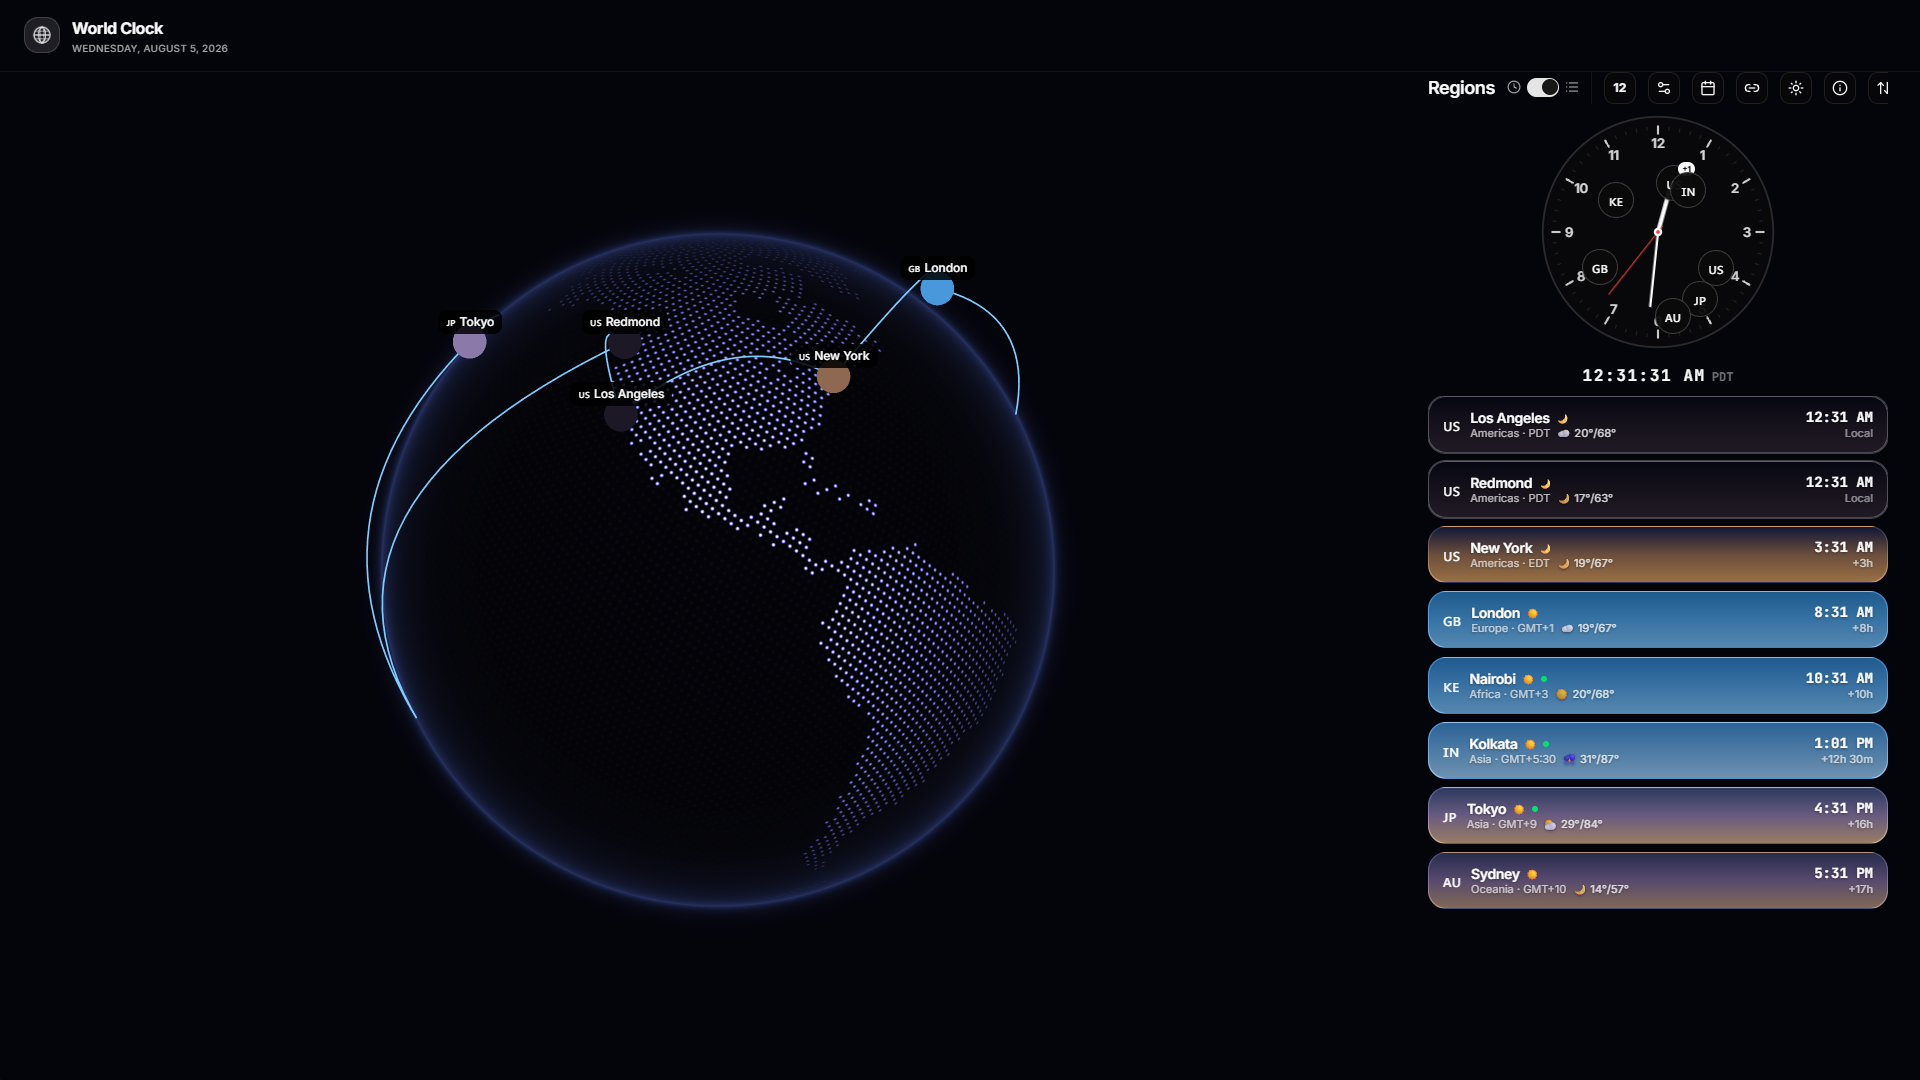
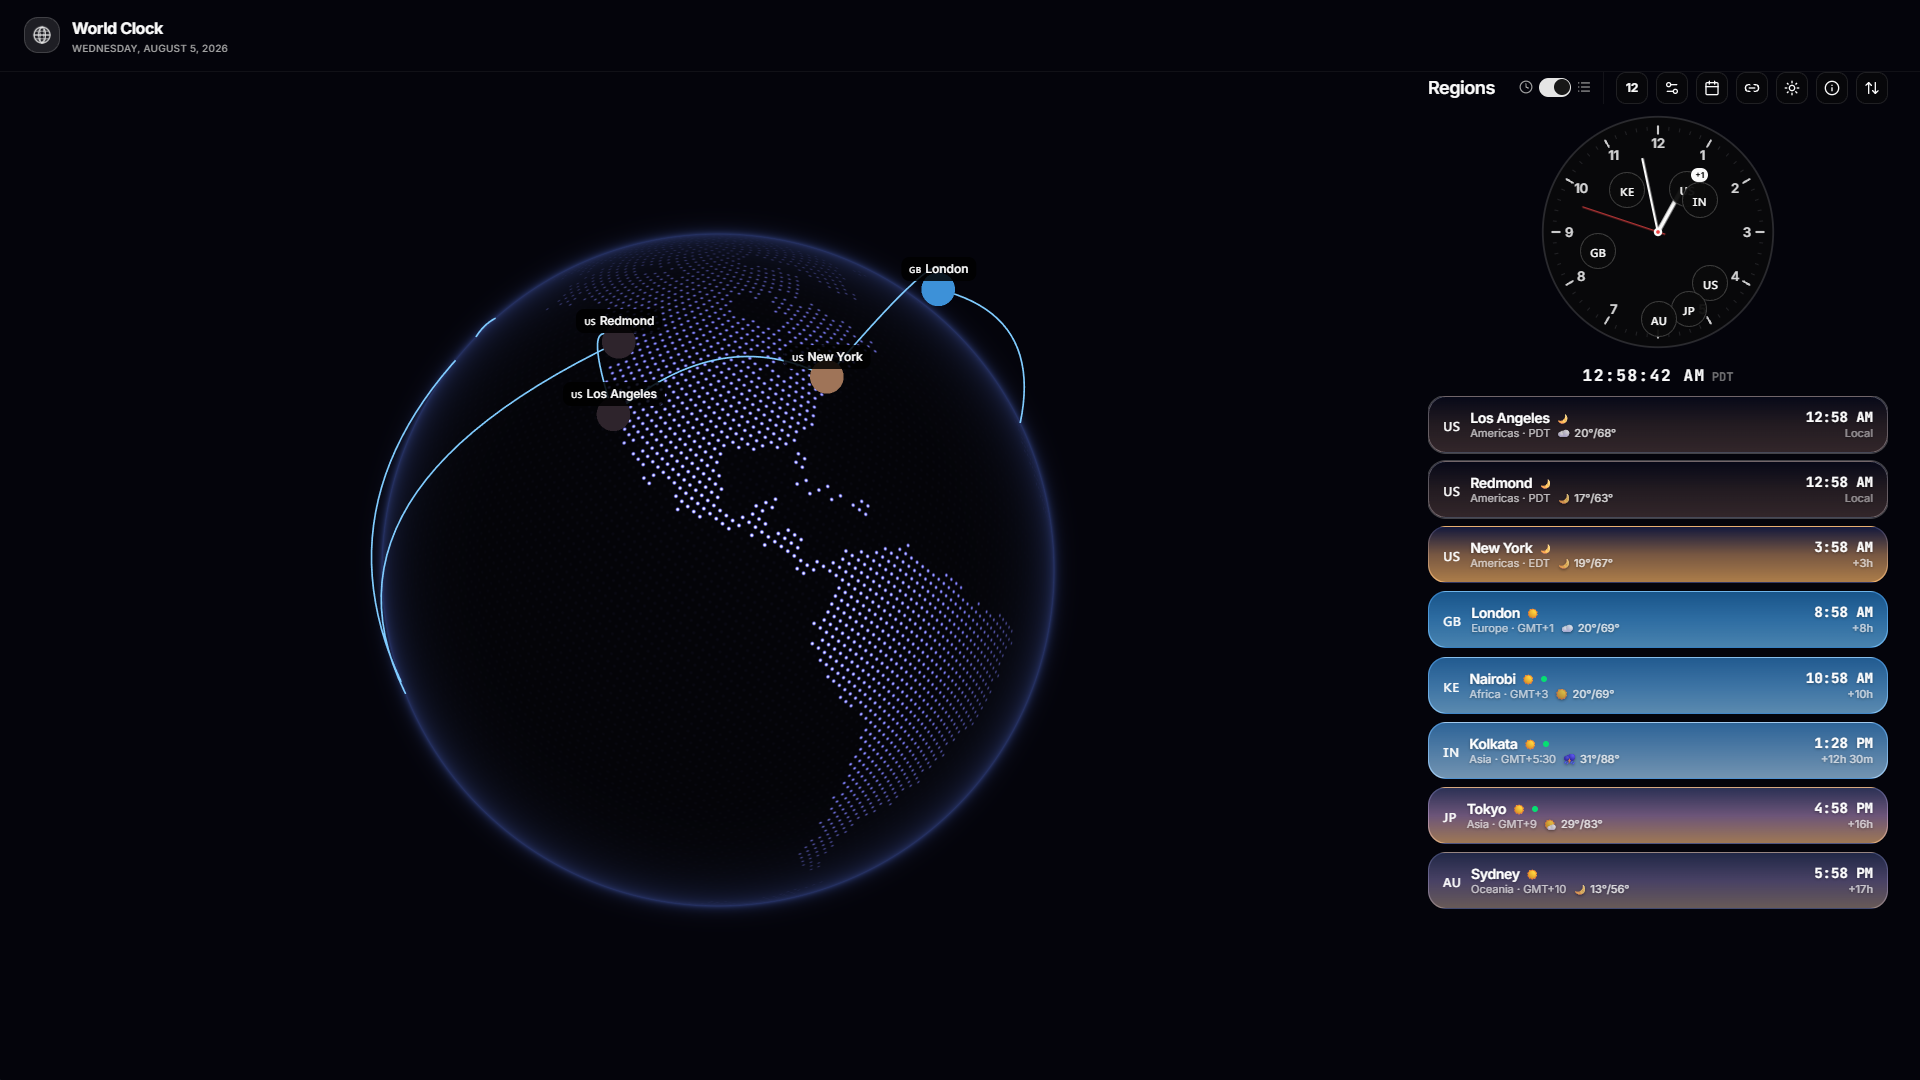
fix(ui): keep every header action reachable at all viewport widths
The panel header icon row lives inside the right column, which is
340px (md) / 420px (lg) / 460px (xl) wide. The row needs ~457px, so
below xl it overflowed the panel's `overflow-hidden` box. Overflowing
buttons still reported a valid boundingBox but were clipped out of the
paint tree, so elementFromPoint fell through to <main> and the buttons
were unclickable by mouse. Widening the gap to 3 in the previous commit
made this worse, pushing the last button off-screen from 1024-1264px.

- gap-3 -> gap-2 and after:-inset-x-1.5 -> after:-inset-x-1 so the
  extended hit areas meet exactly (4+4=8) without overlapping
- icon row is now `hidden xl:flex`, matching the 460px panel that can
  actually contain it
- the bottom action nav (and the pb-20 that clears it) now covers
  everything below xl instead of stopping at sm, which also fixes the
  pre-existing 768-1008px gap where three actions were unreachable

Tests: the hit-area probe now sweeps 1280/1440/1600/1920 and asserts
each button is inside the viewport and is the topmost element at three
points across its width. A new test asserts the bottom nav and all of
its actions are visible and unclipped at 640/768/900/1024/1152/1279.

diff --git a/src/app/page.tsx b/src/app/page.tsx
@@ -235,7 +235,7 @@ export default function WorldClockPage() {
           </div>
         )}
 
-        <main id="main-content" className="flex min-h-0 flex-1 flex-col md:flex-row gap-3 px-4 pb-20 sm:pb-3 sm:px-6 lg:gap-6 lg:px-8">
+        <main id="main-content" className="flex min-h-0 flex-1 flex-col md:flex-row gap-3 px-4 pb-20 xl:pb-3 sm:px-6 lg:gap-6 lg:px-8">
           {/* Globe — left side (hidden on mobile, visible from lg up) */}
           <div className="hidden md:flex flex-1 items-center justify-center min-h-0">
             <GlobeViewer
@@ -289,10 +289,10 @@ export default function WorldClockPage() {
                       <List className="h-3.5 w-3.5 hidden sm:block" />
                     </div>
                     {/* Desktop / tablet icon row — hidden on phones in favor of the bottom action bar */}
-                    <div className="hidden sm:flex items-center gap-3 border-l border-border/60 pl-3">
+                    <div className="hidden xl:flex items-center gap-2 border-l border-border/60 pl-3">
                     <button
                       onClick={toggleTimeFormat}
-                      className="relative flex h-7 w-7 sm:h-8 sm:w-8 items-center justify-center rounded-lg border border-border after:absolute after:content-[''] after:-inset-y-2 after:-inset-x-1.5
+                      className="relative flex h-7 w-7 sm:h-8 sm:w-8 items-center justify-center rounded-lg border border-border after:absolute after:content-[''] after:-inset-y-2 after:-inset-x-1
                                  bg-background/50 transition-[transform,background-color] duration-160
                                  hover:bg-accent active:scale-[0.95] text-[10px] sm:text-xs font-bold"
                       style={{ transitionTimingFunction: "cubic-bezier(0.23, 1, 0.32, 1)" }}
@@ -302,7 +302,7 @@ export default function WorldClockPage() {
                     </button>
                     <button
                       onClick={() => { openedViaKeyboard.current = false; setShowManager(true); setShowMeetingPlanner(false); }}
-                      className="relative flex h-7 w-7 sm:h-8 sm:w-8 items-center justify-center rounded-lg border border-border after:absolute after:content-[''] after:-inset-y-2 after:-inset-x-1.5
+                      className="relative flex h-7 w-7 sm:h-8 sm:w-8 items-center justify-center rounded-lg border border-border after:absolute after:content-[''] after:-inset-y-2 after:-inset-x-1
                                  bg-background/50 transition-[transform,background-color] duration-160
                                  hover:bg-accent active:scale-[0.95]"
                       style={{ transitionTimingFunction: "cubic-bezier(0.23, 1, 0.32, 1)" }}
@@ -312,7 +312,7 @@ export default function WorldClockPage() {
                     </button>
                     <button
                       onClick={() => { openedViaKeyboard.current = false; setShowMeetingPlanner(true); setShowManager(false); }}
-                      className="relative flex h-7 w-7 sm:h-8 sm:w-8 items-center justify-center rounded-lg border border-border after:absolute after:content-[''] after:-inset-y-2 after:-inset-x-1.5
+                      className="relative flex h-7 w-7 sm:h-8 sm:w-8 items-center justify-center rounded-lg border border-border after:absolute after:content-[''] after:-inset-y-2 after:-inset-x-1
                                  bg-background/50 transition-[transform,background-color] duration-160
                                  hover:bg-accent active:scale-[0.95]"
                       style={{ transitionTimingFunction: "cubic-bezier(0.23, 1, 0.32, 1)" }}
@@ -322,7 +322,7 @@ export default function WorldClockPage() {
                     </button>
                     <button
                       onClick={handleShare}
-                      className="relative flex h-7 w-7 sm:h-8 sm:w-8 items-center justify-center rounded-lg border border-border after:absolute after:content-[''] after:-inset-y-2 after:-inset-x-1.5
+                      className="relative flex h-7 w-7 sm:h-8 sm:w-8 items-center justify-center rounded-lg border border-border after:absolute after:content-[''] after:-inset-y-2 after:-inset-x-1
                                  bg-background/50 transition-[transform,background-color] duration-160
                                  hover:bg-accent active:scale-[0.95]"
                       style={{ transitionTimingFunction: "cubic-bezier(0.23, 1, 0.32, 1)" }}
@@ -336,7 +336,7 @@ export default function WorldClockPage() {
                     </button>
                     <button
                       onClick={() => setTheme(theme === "dark" ? "light" : "dark")}
-                      className="relative flex h-7 w-7 sm:h-8 sm:w-8 items-center justify-center rounded-lg border border-border after:absolute after:content-[''] after:-inset-y-2 after:-inset-x-1.5
+                      className="relative flex h-7 w-7 sm:h-8 sm:w-8 items-center justify-center rounded-lg border border-border after:absolute after:content-[''] after:-inset-y-2 after:-inset-x-1
                                  bg-background/50 transition-[transform,background-color] duration-160
                                  hover:bg-accent active:scale-[0.95]"
                       style={{ transitionTimingFunction: "cubic-bezier(0.23, 1, 0.32, 1)" }}
@@ -350,7 +350,7 @@ export default function WorldClockPage() {
                     </button>
                     <button
                       onClick={() => { openedViaKeyboard.current = false; setShowAbout(true); }}
-                      className="relative flex h-7 w-7 sm:h-8 sm:w-8 items-center justify-center rounded-lg border border-border after:absolute after:content-[''] after:-inset-y-2 after:-inset-x-1.5
+                      className="relative flex h-7 w-7 sm:h-8 sm:w-8 items-center justify-center rounded-lg border border-border after:absolute after:content-[''] after:-inset-y-2 after:-inset-x-1
                                  bg-background/50 transition-[transform,background-color] duration-160
                                  hover:bg-accent active:scale-[0.95]"
                       style={{ transitionTimingFunction: "cubic-bezier(0.23, 1, 0.32, 1)" }}
@@ -360,7 +360,7 @@ export default function WorldClockPage() {
                     </button>
                     <button
                       onClick={toggleCustomOrder}
-                      className={`relative flex h-7 w-7 sm:h-8 sm:w-8 items-center justify-center rounded-lg border border-border after:absolute after:content-[''] after:-inset-y-2 after:-inset-x-1.5
+                      className={`relative flex h-7 w-7 sm:h-8 sm:w-8 items-center justify-center rounded-lg border border-border after:absolute after:content-[''] after:-inset-y-2 after:-inset-x-1
                                  transition-[transform,background-color] duration-160
                                  hover:bg-accent active:scale-[0.95]
                                  ${customOrder ? "bg-accent/80" : "bg-background/50"}`}
@@ -432,7 +432,7 @@ export default function WorldClockPage() {
       {!showManager && !showMeetingPlanner && (
         <nav
           aria-label="Primary actions"
-          className="sm:hidden fixed inset-x-0 bottom-0 z-30 border-t border-border
+          className="xl:hidden fixed inset-x-0 bottom-0 z-30 border-t border-border
                      bg-background/85
                      pb-[env(safe-area-inset-bottom)]"
         >

diff --git a/tests/security-headers.spec.ts b/tests/security-headers.spec.ts
@@ -32,9 +32,6 @@ test("security headers present and no CSP violations at runtime", async ({ page 
 // button, and because the later sibling paints on top, clicks near a button's
 // right edge fire the WRONG action.
 test("header action buttons do not steal each other's clicks", async ({ page }) => {
-  await page.setViewportSize({ width: 1440, height: 900 });
-  await page.goto("/");
-
   const labels = [
     "Toggle clock view",
     "Toggle time format",
@@ -43,33 +40,88 @@ test("header action buttons do not steal each other's clicks", async ({ page }) 
     "Copy shareable link",
     "Toggle theme",
     "About World Clock",
+    "Custom order (drag to reorder)",
+    "Sort by time",
   ];
 
-  const mismatches: string[] = [];
-  let checked = 0;
+  // The icon row is `hidden xl:flex`; below that the fixed bottom nav takes over.
+  for (const width of [1280, 1440, 1600, 1920]) {
+    await page.setViewportSize({ width, height: 900 });
+    await page.goto("/");
 
-  for (const label of labels) {
-    const btn = page.locator(`button[aria-label="${label}"]`).first();
-    if ((await btn.count()) === 0 || !(await btn.isVisible())) continue;
-    const box = await btn.boundingBox();
-    if (!box) continue;
-    checked++;
+    const problems: string[] = [];
+    let checked = 0;
 
-    const y = box.y + box.height / 2;
-    for (const x of [box.x + 1, box.x + box.width / 2, box.x + box.width - 1]) {
-      const hit = await page.evaluate(
-        ([px, py]) => {
-          const el = document.elementFromPoint(px as number, py as number);
-          return el?.closest("button")?.getAttribute("aria-label") ?? null;
-        },
-        [x, y]
-      );
-      if (hit !== label) mismatches.push(`"${label}" at x=${Math.round(x)} hit "${hit}"`);
+    for (const label of labels) {
+      const btn = page.locator(`button[aria-label="${label}"]`).first();
+      if ((await btn.count()) === 0 || !(await btn.isVisible())) continue;
+      const box = await btn.boundingBox();
+      if (!box) continue;
+      checked++;
+
+      // Fully within the viewport — an off-screen button is unclickable because
+      // the row's ancestor clips overflow and offers no horizontal scrollbar.
+      if (box.x < 0 || box.x + box.width > width) {
+        problems.push(
+          `${width}px: "${label}" spans ${Math.round(box.x)}..${Math.round(box.x + box.width)}, outside viewport`
+        );
+        continue;
+      }
+
+      const y = box.y + box.height / 2;
+      for (const x of [box.x + 1, box.x + box.width / 2, box.x + box.width - 1]) {
+        const hit = await page.evaluate(
+          ([px, py]) => {
+            const el = document.elementFromPoint(px as number, py as number);
+            return el?.closest("button")?.getAttribute("aria-label") ?? null;
+          },
+          [x, y]
+        );
+        if (hit !== label) {
+          problems.push(`${width}px: "${label}" at x=${Math.round(x)} hit "${hit}"`);
+        }
+      }
+    }
+
+    expect(checked, `no header buttons found at ${width}px`).toBeGreaterThan(1);
+    expect(problems).toEqual([]);
+  }
+});
+
+// Below `lg` the header icon row is hidden because the 340-420px panel cannot
+// fit it without pushing buttons past the right edge of a viewport that has no
+// horizontal scrollbar. The fixed bottom nav must therefore be reachable there.
+test("primary actions stay reachable below the xl breakpoint", async ({ page }) => {
+  for (const width of [640, 768, 900, 1024, 1152, 1279]) {
+    await page.setViewportSize({ width, height: 900 });
+    await page.goto("/");
+
+    const nav = page.locator('nav[aria-label="Primary actions"]');
+    await expect(nav, `bottom nav missing at ${width}px`).toBeVisible();
+
+    const box = await nav.boundingBox();
+    expect(box, `bottom nav has no box at ${width}px`).not.toBeNull();
+    expect(box!.x).toBeGreaterThanOrEqual(0);
+    expect(Math.round(box!.x + box!.width)).toBeLessThanOrEqual(width);
+
+    // Every action in the bar must be inside the viewport and actually on top.
+    const buttons = nav.locator("button");
+    const count = await buttons.count();
+    expect(count, `no actions in bottom nav at ${width}px`).toBeGreaterThan(1);
+
+    for (let i = 0; i < count; i++) {
+      const btn = buttons.nth(i);
+      const label = (await btn.getAttribute("aria-label")) ?? (await btn.innerText());
+      const bb = await btn.boundingBox();
+      expect(bb, `"${label}" has no box at ${width}px`).not.toBeNull();
+      expect(bb!.x, `"${label}" clipped left at ${width}px`).toBeGreaterThanOrEqual(0);
+      expect(
+        Math.round(bb!.x + bb!.width),
+        `"${label}" clipped right at ${width}px`
+      ).toBeLessThanOrEqual(width);
+      await expect(btn, `"${label}" not clickable at ${width}px`).toBeEnabled();
     }
   }
-
-  expect(checked).toBeGreaterThan(1);
-  expect(mismatches).toEqual([]);
 });
 // Regression guard: ALL_TIMEZONES keeps several pre-2017 IANA ids, while the
 // alias table is written against modern canonical names. Without the mapping
